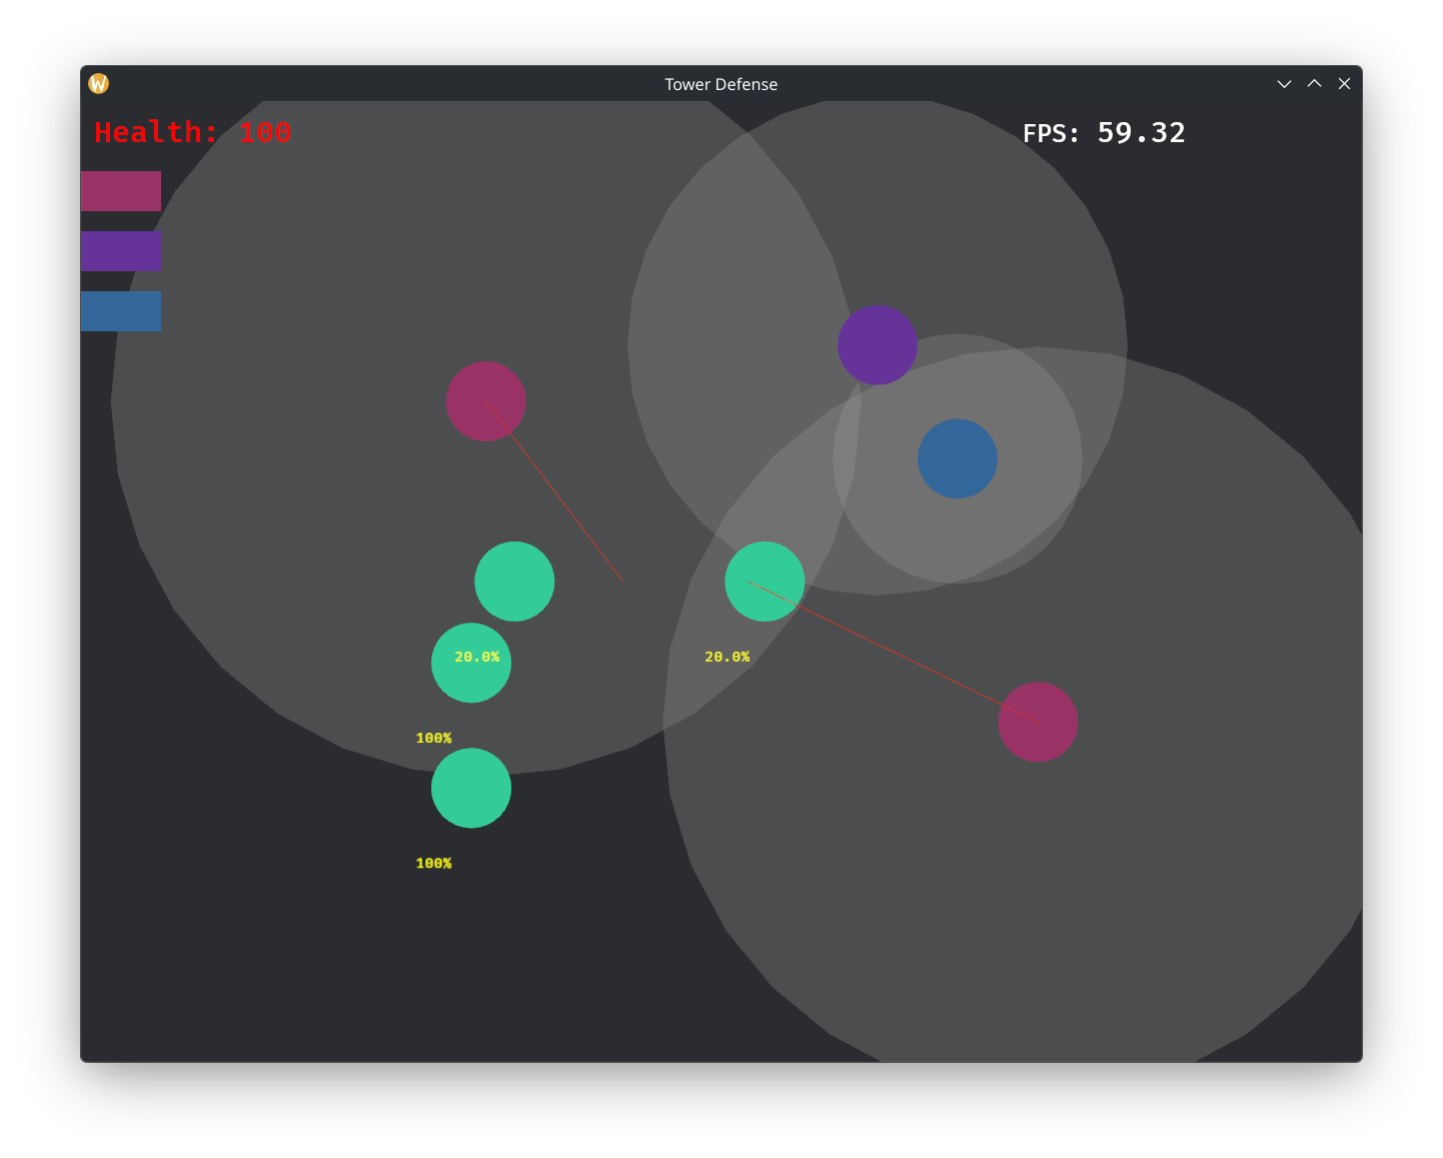
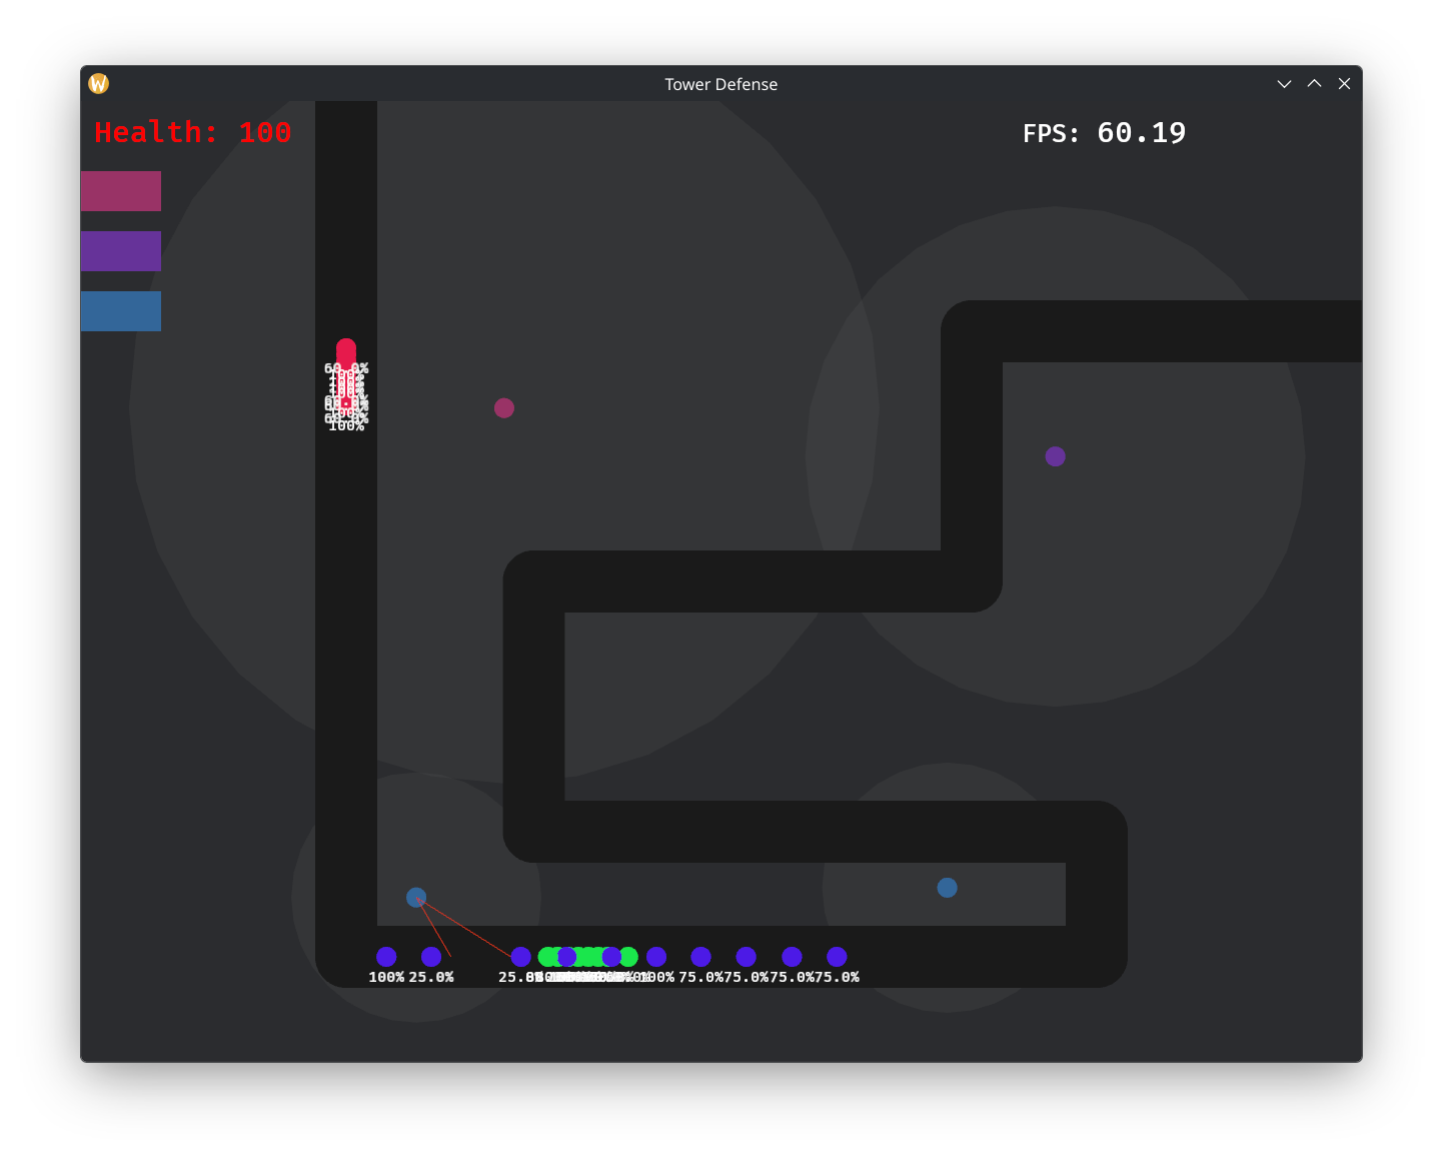
Better path

diff --git a/src/game.rs b/src/game.rs
@@ -1,5 +1,5 @@
 use crate::{
-    deletable::update_deletables, dragged::*, enemy::*, health::*, math::*, tower::*, util::*,
+    deletable::update_deletables, dragged::*, enemy::*, game, health::*, math::*, tower::*, util::*,
 };
 use bevy::{
     color::palettes::css::{BLUE, RED, WHITE},
@@ -108,12 +108,19 @@ fn setup(
     }
 
     // Path.
-    let path_shape = meshes.add(Polyline2d::new(game_map.path.clone()));
-    commands.spawn((
-        Mesh2d(path_shape),
-        MeshMaterial2d(materials.add(Color::Srgba(Srgba::new(1.0, 1.0, 1.0, 1.0)))),
-        Transform::from_xyz(0.0, 0.0, 0.0),
-    ));
+    for i in 0..game_map.path.len() - 1 {
+        let midpoint = game_map.path[i].midpoint(game_map.path[i + 1]);
+        commands.spawn((
+            Mesh2d(meshes.add(Capsule2d::new(
+                25.0,
+                game_map.path[i].distance(game_map.path[i + 1]),
+            ))),
+            MeshMaterial2d(materials.add(Color::Srgba(Srgba::new(0.1, 0.1, 0.1, 1.0)))),
+            Transform::from_xyz(midpoint.x, midpoint.y, 0.0).with_rotation(Quat::from_rotation_z(
+                (game_map.path[i] - game_map.path[i + 1]).to_angle() + std::f32::consts::PI / 2.0,
+            )),
+        ));
+    }
 }
 
 fn update_enemy_movement(
@@ -334,10 +341,15 @@ impl Plugin for GamePlugin {
         })
         .insert_resource(GameMap {
             path: vec![
-                (-200.0, -200.0).into(),
-                (-200.0, 0.0).into(),
+                (-300.0, 384.0).into(),
+                (-300.0, -300.0).into(),
+                (300.0, -300.0).into(),
+                (300.0, -200.0).into(),
+                (-150.0, -200.0).into(),
+                (-150.0, 0.0).into(),
                 (200.0, 0.0).into(),
                 (200.0, 200.0).into(),
+                (512.0, 200.0).into(),
             ],
         })
         .insert_resource(ShootingTimer(shooting_timers))

diff --git a/src/math.rs b/src/math.rs
@@ -2,7 +2,7 @@ use bevy::math::Vec2;
 
 const PIXEL_MOVE_FLOAT_PRECISION: f32 = 0.4;
 
-fn slope(lhs: &Vec2, rhs: &Vec2) -> f32 {
+pub(crate) fn slope(lhs: &Vec2, rhs: &Vec2) -> f32 {
     (lhs.x - rhs.x) / (lhs.y - rhs.y)
 }
 
@@ -28,8 +28,6 @@ fn point_on_path(p: &Vec2, path: (&Vec2, &Vec2)) -> bool {
     between(p.x, path.0.x, path.1.x) && between(p.y, path.0.y, path.1.y)
 }
 
-// TODO: Each move we get a little deviation from the path.
-//       We could re-adjust each move.
 pub(crate) fn calculate_next_position_on_path(
     point: &Vec2,
     path: &Vec<Vec2>,
